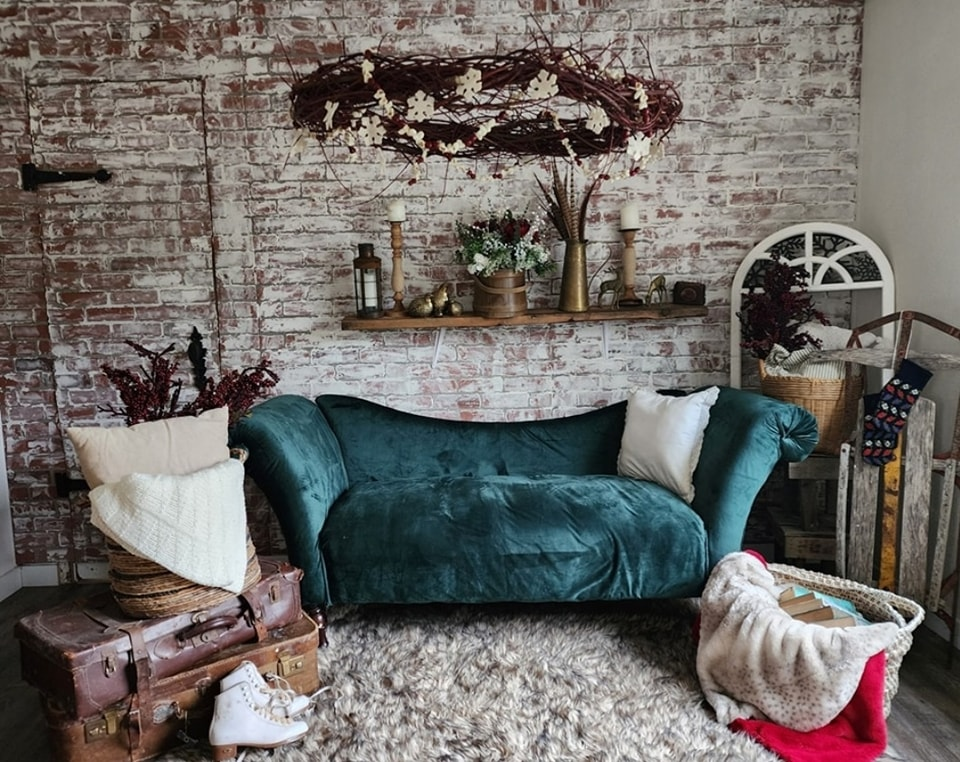
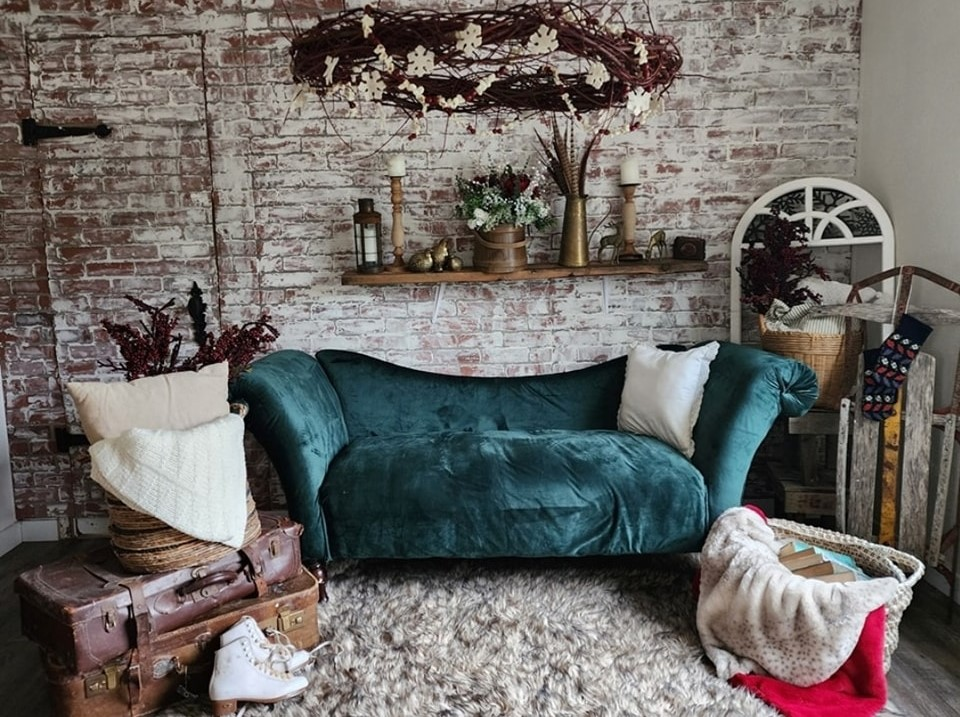
Styled Indoor and Outdoor Calendars, and added background images

diff --git a/FarmsAndFairytalesWebsite/wwwroot/css/calendar.css b/FarmsAndFairytalesWebsite/wwwroot/css/calendar.css
@@ -8,7 +8,7 @@
     height: 100%;
     background-color: rgba(0, 0, 0, 0.5);
     justify-content: center;
-    align-items: center; /* Centers modal vertically */
+    align-items: center;  
 }
 
 .modal-content {
@@ -17,8 +17,8 @@
     padding: 20px;
     box-shadow: 0px 4px 15px rgba(0, 0, 0, 0.3);
     animation: fadeIn 0.3s ease-in-out;
-    width: 50%; /* Adjust width as needed */
-    max-width: 500px; /* Prevent excessive width */
+    width: 50%; 
+    max-width: 500px; 
 }
 
 @keyframes fadeIn {
@@ -96,14 +96,21 @@ button:hover {
 }
 
 #calendar-indoor {
-    background-color: rgba(255, 255, 255, 0.9) !important; /* More visibility */
+    background-color: rgba(255, 255, 255, 0.9) !important;
+    border-radius: 10px;
+    padding: 10px;
+    box-shadow: 0px 4px 10px rgba(0, 0, 0, 0.2);
+}
+
+#calendar-outdoor {
+    background-color: rgba(255, 255, 255, 0.9) !important;
     border-radius: 10px;
     padding: 10px;
     box-shadow: 0px 4px 10px rgba(0, 0, 0, 0.2);
 }
 
 .fc-event {
-    background-color: #e45151 !important; /* Keep booked slots distinguishable */
+    background-color: #e45151 !important;
     color: white !important;
     font-weight: bold;
     text-align: center;
@@ -116,7 +123,6 @@ button:hover {
 }
 
 body {
-    background-image: url("../BackgroundImages/FAFIndoorCalendarBackground.jpg");
     background-size: 80%;
     background-repeat: no-repeat;
     background-position: center;
@@ -132,8 +138,8 @@ body {
 .rounded-title {
     display: inline-block;
     padding: 5px 15px;
-    border: 2px solid #333; /* Adjust color as needed */
+    border: 2px solid #333;
     border-radius: 20px;
-    background-color: #f8f9fa; /* Optional: Background color */
+    background-color: #f8f9fa;
     font-weight: bold;
 }
